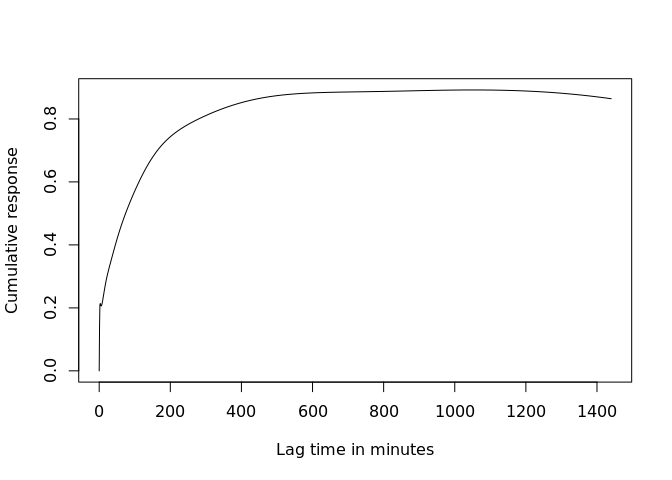
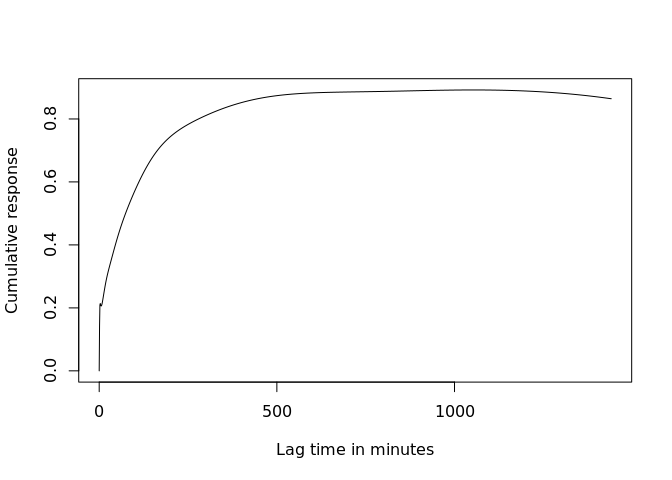
readme edits

diff --git a/README.md b/README.md
@@ -11,7 +11,7 @@ for step additions. The first three goals are likely to be achieved but
 the fourth might not given that the package implements two APIs (one for
 R6 and one for S3). Speed and memory improvements comes from the
 [collapse](https://sebkrantz.github.io/collapse/) package, Rcpp code,
-and attempts to reduce copying data.
+using algorithms that scale better, and attempts to reduce copying data.
 
 It diverges in a few ways:
 
@@ -53,10 +53,14 @@ library(hydrorecipes)
     Loading required package: Bessel
 
 ``` r
-data(kennel_2020)
+# kennel_2020 (1 minute interval)
+#  water level
+#  barometric pressure
+#  synthetic earthtide
+data(kennel_2020) 
 
 form     <- as.formula(wl~.)
-ba_knots <- log_lags_arma(15, 1440) # knots for distributed lag baro terms
+ba_knots <- log_lags_arma(15, 1441) # knots for distributed lag baro terms
 df       <- 5                            # degrees of freedom for spline background trend
 
 rec <- recipe(form, kennel_2020) |>
@@ -101,12 +105,15 @@ points(wl_step_distributed_lag +
 
 ## To do:
 
--   Change modelling steps to recipe function?
+-   Determine how to store model results or steps that result in fewer
+    rows
     -   response
     -   predict
     -   coefficients
     -   fft
     -   baro
+-   Assess default bake step for steps
+-   improve use of …
 -   Explore convolution methods for Laplace solutions
 -   Optimize Laplace solutions
 -   Fix selectors
@@ -115,6 +122,7 @@ points(wl_step_distributed_lag +
 -   Increase test coverage
 -   Steps
     -   step_temporary_deployment
+    -   step_read_transducer
 -   Tests for selectors
 -   Increase speed
 -   Decrease memory consumption
